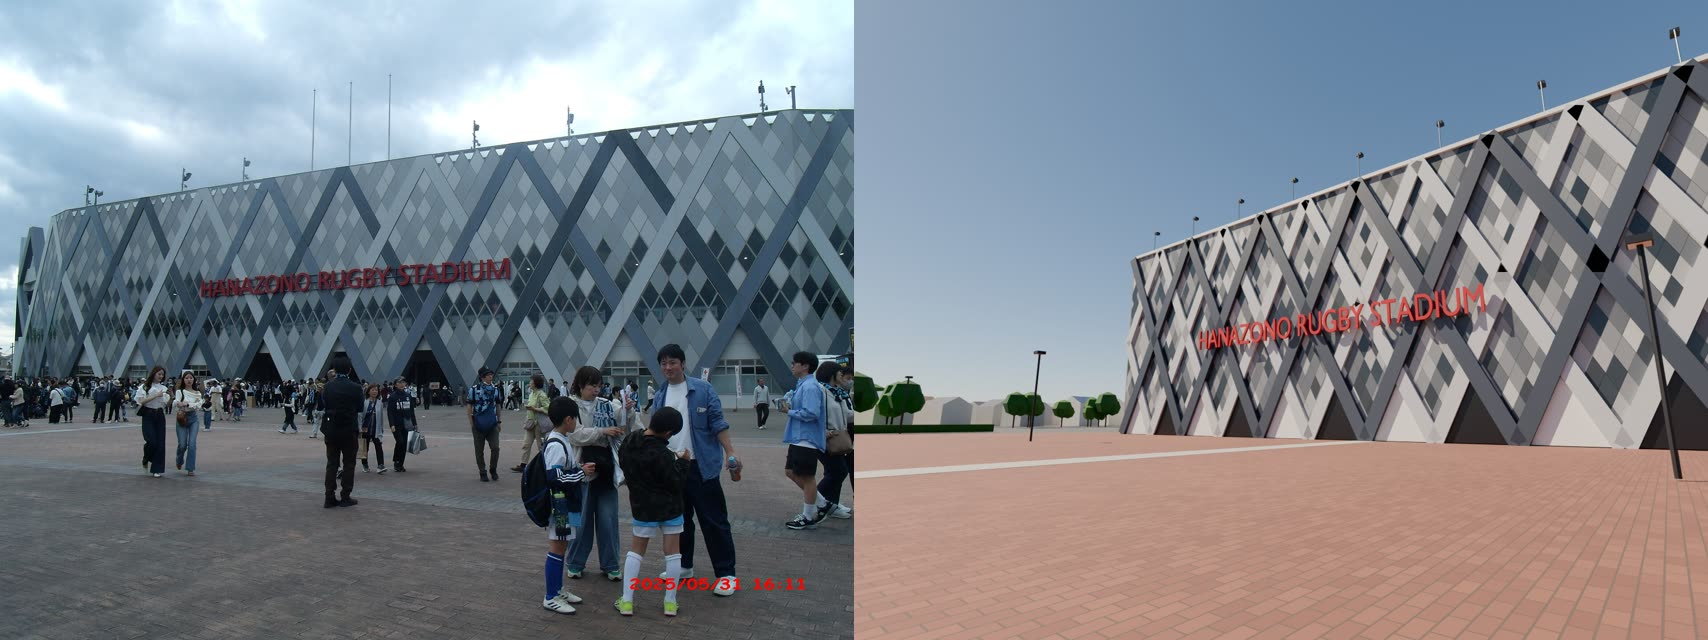
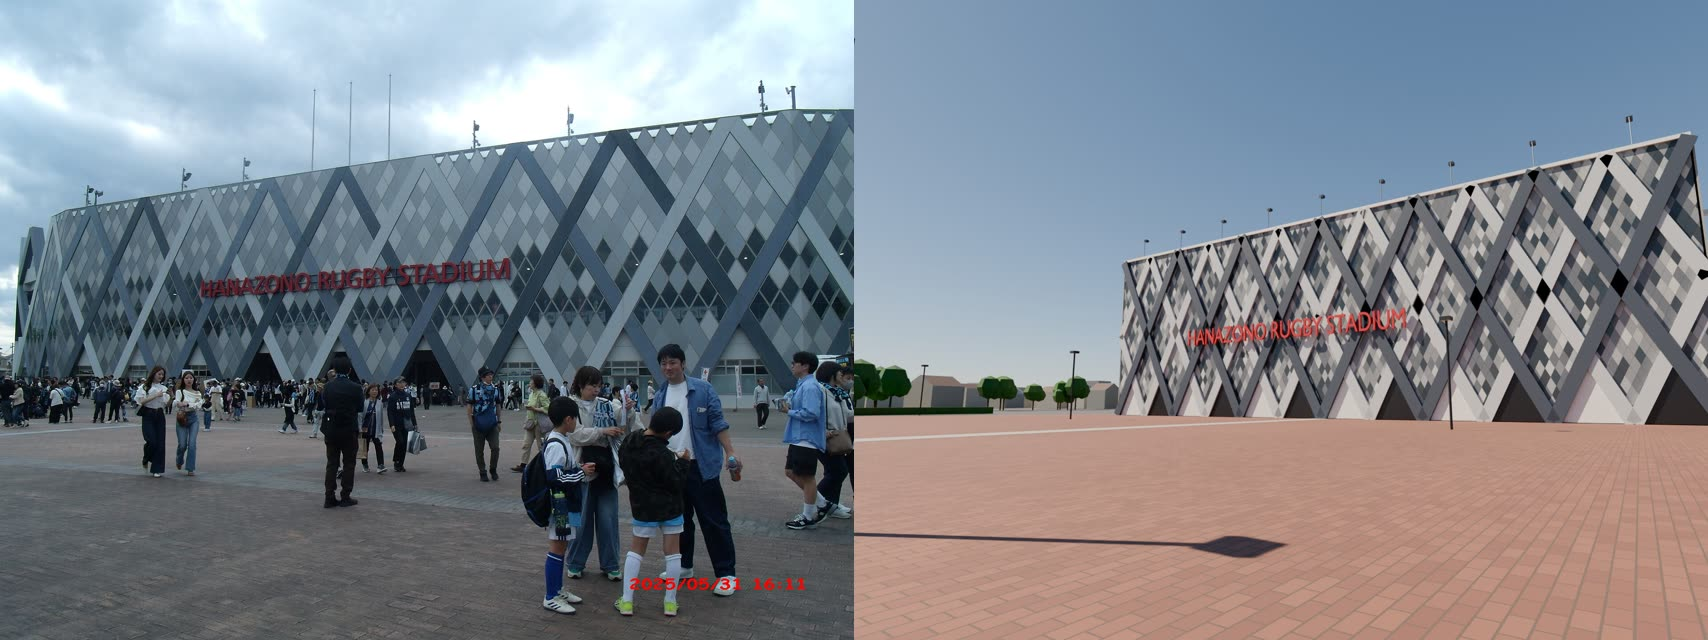
⑨見比べ 2 回目: 山、正面のタイル、光のにじみ、カメラの直し

Changed region(s): [[0.4965, 0.0625, 1.0, 0.75], [0.4965, 0.8125, 0.7447, 0.875], [0.9619, 0.0312, 0.993, 0.0625]]

diff --git a/scripts/hz/materials.py b/scripts/hz/materials.py
@@ -191,8 +191,8 @@ def _scrum_tiles():
         elif bval is not None:
             n.inputs[1].default_value = bval
         return n.outputs[0]
-    yy = math("DIVIDE", sep.outputs["Y"], 1.15)
-    zz = math("DIVIDE", sep.outputs["Z"], 2.3)
+    yy = math("DIVIDE", sep.outputs["Y"], 0.8)
+    zz = math("DIVIDE", sep.outputs["Z"], 1.6)
     a = math("ADD", yy, b_sock=zz)
     bb = math("SUBTRACT", yy, b_sock=zz)
     fa, fb = math("FLOOR", a), math("FLOOR", bb)
@@ -267,7 +267,7 @@ _builders = {
     "asphalt_dark": _noisy("asphalt_dark", srgb(66, 66, 70), 0.95, scale=0.5, amount=0.15),
     "leaf_a": _noisy("leaf_a", srgb(52, 92, 40), 0.9, scale=1.5, amount=0.35),
     "leaf_b": _noisy("leaf_b", srgb(70, 108, 46), 0.9, scale=1.5, amount=0.35),
-    "mountain": _noisy("mountain", srgb(52, 76, 74), 1.0, scale=0.004, amount=0.15),
+    "mountain": _noisy("mountain", srgb(44, 64, 66), 1.0, scale=0.004, amount=0.15),
     "grass": _grass,
     "concrete": _noisy("concrete", srgb(150, 148, 142), 0.85, scale=0.8, amount=0.10, bump=0.15),
     "concrete_dark": _noisy("concrete_dark", srgb(72, 72, 74), 0.9, scale=0.8, amount=0.12, bump=0.15),

diff --git a/scripts/compare.py b/scripts/compare.py
@@ -23,11 +23,11 @@ ITEMS = [
     ("03_back_stand", "Hanazono_Rugby_Stadium_Back_Stand_2022-11.jpg", "Mr.ちゅらさん", "CC BY-SA 4.0", "day",
      (-24.0, 37.5, 1.6), (-14.0, -60.0, 7.0), 25, (16, 9)),
     ("04_vision", "Hanazono_Vision_2022-11.jpg", "Mr.ちゅらさん", "CC BY-SA 4.0", "day",
-     (32.0, 27.0, 2.2), (88.0, -4.0, 13.0), 40, (16, 9)),
+     (20.0, 30.0, 2.2), (86.0, -10.0, 12.0), 27, (16, 9)),
     ("05_behind_goal", "Hanazono_Rugby_Stadium_2023-04.jpg", "Mr.ちゅらさん", "CC BY-SA 4.0", "day",
      (-62.0, 3.9, 1.5), (40.0, -4.8, 14.0), 29, (16, 9)),
     ("06_entrance", "Hanazono_Rugby_Stadium_Entrance_2025-05.jpg", "Mr.ちゅらさん", "CC BY 4.0", "day",
-     (-158.0, -20.0, 1.6), (-118.0, 12.0, 12.5), 20, (4, 3)),
+     (-174.0, -30.0, 1.6), (-118.0, 8.0, 12.5), 22, (4, 3)),
     ("07_from_back_stand", "Sunset_in_Hanazono_Rugby_Stadium_2024-06.jpg", "Mr.ちゅらさん", "CC0", "day",
      (-22.0, -53.2, 9.0), (52.0, 40.0, 8.5), 26, (4, 3)),
     ("08_night", "Night_Game_of_Hanazono_Rugby_Stadium_2025-05.jpg", "Mr.ちゅらさん", "CC BY 4.0", "night",

diff --git a/scripts/hz/cameras.py b/scripts/hz/cameras.py
@@ -4,11 +4,11 @@ from mathutils import Vector
 
 VIEWS = {
     # 仕上げの 5 つ
-    "broadcast": ((-1.6, 66.5, 17.6), (0.0, -12.0, 0.0), 21),          # 中継風(メインスタンド上段の中央)
+    "broadcast": ((-5.0, 66.5, 17.6), (-5.0, -12.0, 0.0), 21),          # 中継風(メインスタンド上段の中央)
     "behind_goal": ((-84.0, 3.0, 7.5), (30.0, 0.0, 6.0), 26),        # 南のゴール裏から
-    "from_seat": ((-22.0, -58.5, 10.9), (30.0, 32.0, 7.0), 20),       # バックスタンドの客席から
+    "from_seat": ((-12.0, -62.5, 13.2), (32.0, 34.0, 5.0), 20),       # バックスタンドの客席から
     "aerial": ((-150.0, -120.0, 150.0), (-5.0, 5.0, 0.0), 35),       # 空から見下ろす
-    "exterior": ((-196.0, -52.0, 1.8), (-112.0, -4.0, 13.0), 22),     # 南の正面広場から外観
+    "exterior": ((-166.0, -40.0, 1.8), (-116.0, 2.0, 12.0), 20),     # 南の正面広場から外観
     # 確認用
     "ref_back": ((-20.0, 38.0, 1.7), (-5.0, -60.0, 6.0), 22),
     "ref_north": ((15.0, 22.0, 3.0), (84.0, -2.0, 11.0), 26),

diff --git a/scripts/hz/sky.py b/scripts/hz/sky.py
@@ -1,5 +1,6 @@
 """昼と夜の光。描く直前に呼ぶ(1 つの .blend で両方に切り替えられる)。"""
 import math
+import os
 
 import bpy
 from mathutils import Vector
@@ -131,9 +132,8 @@ def _glare(scene, on):
             nt.interface.new_socket("Image", in_out="OUTPUT", socket_type="NodeSocketColor")
             rl = nt.nodes.new("CompositorNodeRLayers")
             gl = nt.nodes.new("CompositorNodeGlare")
-            print("[glare] 入力:", [(i.name, getattr(i, "default_value", None)) for i in gl.inputs])
             out = nt.nodes.new("NodeGroupOutput")
-            for key, val in (("Type", "Fog Glow"), ("Quality", "High"), ("Threshold", 3.0), ("Strength", 0.8), ("Size", 0.6)):
+            for key, val in (("Type", "Fog Glow"), ("Quality", "High"), ("Threshold", float(os.environ.get("HZ_GT", 6.0))), ("Strength", float(os.environ.get("HZ_GS", 1.0))), ("Size", float(os.environ.get("HZ_GZ", 1.0)))):
                 try:
                     gl.inputs[key].default_value = val
                 except Exception as e:

diff --git a/scripts/hz/exterior.py b/scripts/hz/exterior.py
@@ -345,8 +345,8 @@ def _mountain(cfg, c):
         return max(60.0, h)
     for (a, b) in zip(xs, xs[1:]):
         ha, hb = hgt(a), hgt(b)
-        mb.face(((b, -1900, 0), (a, -1900, 0), (a, -3000, ha), (b, -3000, hb)), mat)
-        mb.face(((b, -3000, hb), (a, -3000, ha), (a, -3800, ha * 0.9), (b, -3800, hb * 0.9)), mat)
+        mb.face(((b, -2400, 0), (a, -2400, 0), (a, -3600, ha), (b, -3600, hb)), mat)
+        mb.face(((b, -3600, hb), (a, -3600, ha), (a, -4400, ha * 0.9), (b, -4400, hb * 0.9)), mat)
     mb.build("mountain", c, smooth=True)
 
 
